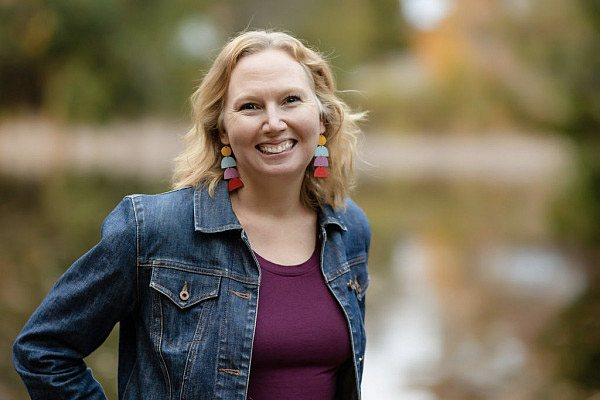
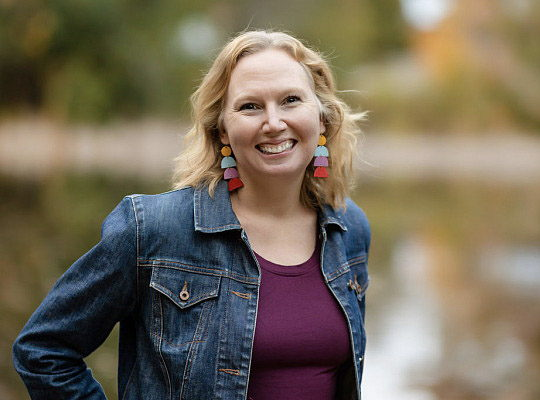
courses changes

diff --git a/courses/index.html b/courses/index.html
@@ -12,6 +12,247 @@
   <meta property="og:description" content="Enroll in six-week online seminars led by world-class scholars. Take courses for personal enrichment or earn ICS credit toward a Master's degree.">
   <meta property="og:url" content="https://f2bf.icscanada.edu/f2bf-courses">
   <meta property="og:type" content="website">
+  <meta property="og:site_name" content="Free to be Faithful">
+  <meta name="twitter:card" content="summary_large_image">
+  <meta name="twitter:title" content="Courses | Free to be Faithful | ICS">
+  <meta name="twitter:description" content="Enroll in six-week online seminars led by world-class scholars. Take courses for personal enrichment or earn ICS credit toward a Master's degree.">
+  <script type="application/ld+json">
+  {
+    "@context": "https://schema.org",
+    "@graph": [
+      {
+        "@type": "WebPage",
+        "@id": "https://f2bf.icscanada.edu/f2bf-courses",
+        "name": "Courses | Free to be Faithful",
+        "description": "Enroll in six-week online seminars led by world-class scholars. Take courses for personal enrichment or earn ICS credit toward a Master's degree.",
+        "url": "https://f2bf.icscanada.edu/f2bf-courses",
+        "isPartOf": { "@id": "https://f2bf.icscanada.edu/#website" }
+      },
+      {
+        "@type": "Course",
+        "name": "Spirals of Love and Healing: Empathy, Re-stor(y)-ing, Re-connecting, Transforming",
+        "description": "Explores the journey of personal healing as an interactive, inter-relational dance of trust and attunement, following a four-stage spiralling process: letting-in, letting-go, letting-out, and letting-transform.",
+        "provider": {
+          "@type": "EducationalOrganization",
+          "name": "Institute for Christian Studies",
+          "url": "https://www.icscanada.edu"
+        },
+        "instructor": {
+          "@type": "Person",
+          "name": "Jim Olthuis",
+          "jobTitle": "Professor Emeritus of Philosophical Theology",
+          "affiliation": { "@type": "EducationalOrganization", "name": "Institute for Christian Studies" }
+        },
+        "courseMode": "Online",
+        "courseSchedule": {
+          "@type": "Schedule",
+          "startDate": "2026-09-15",
+          "repeatFrequency": "P1W",
+          "repeatCount": 6,
+          "byDay": "Tuesday",
+          "scheduleTimezone": "America/Toronto"
+        },
+        "offers": [
+          {
+            "@type": "Offer",
+            "name": "Non-Credit",
+            "price": "400.00",
+            "priceCurrency": "CAD",
+            "url": "https://f2bf.icscanada.edu/f2bf-courses"
+          },
+          {
+            "@type": "Offer",
+            "name": "For Credit",
+            "price": "1500.00",
+            "priceCurrency": "CAD",
+            "url": "https://f2bf.icscanada.edu/f2bf-courses"
+          }
+        ],
+        "educationalLevel": "Graduate",
+        "inLanguage": "en",
+        "hasCourseInstance": {
+          "@type": "CourseInstance",
+          "courseMode": "Online",
+          "startDate": "2026-09-15",
+          "endDate": "2026-10-20",
+          "location": { "@type": "VirtualLocation", "name": "Zoom" }
+        }
+      },
+      {
+        "@type": "Course",
+        "name": "Keeping Faith Under Dictators: Lessons from 20th Century Europe",
+        "description": "What lessons can we gain from European Christians of the last century, both Protestant and Catholic, who lived under fascist, Nazi, and communist regimes? Explores the dynamics of resistance and complicity, and the theological responses of ministers, artists, and intellectuals.",
+        "provider": {
+          "@type": "EducationalOrganization",
+          "name": "Institute for Christian Studies",
+          "url": "https://www.icscanada.edu"
+        },
+        "instructor": {
+          "@type": "Person",
+          "name": "Bruce Berglund",
+          "jobTitle": "Historian and Author"
+        },
+        "courseMode": "Online",
+        "courseSchedule": {
+          "@type": "Schedule",
+          "startDate": "2026-09-16",
+          "repeatFrequency": "P1W",
+          "repeatCount": 6,
+          "byDay": "Wednesday",
+          "scheduleTimezone": "America/Toronto"
+        },
+        "offers": [
+          {
+            "@type": "Offer",
+            "name": "Non-Credit",
+            "price": "400.00",
+            "priceCurrency": "CAD",
+            "url": "https://f2bf.icscanada.edu/f2bf-courses"
+          },
+          {
+            "@type": "Offer",
+            "name": "For Credit",
+            "price": "1500.00",
+            "priceCurrency": "CAD",
+            "url": "https://f2bf.icscanada.edu/f2bf-courses"
+          }
+        ],
+        "educationalLevel": "Graduate",
+        "inLanguage": "en",
+        "hasCourseInstance": {
+          "@type": "CourseInstance",
+          "courseMode": "Online",
+          "startDate": "2026-09-16",
+          "endDate": "2026-10-21",
+          "location": { "@type": "VirtualLocation", "name": "Zoom" }
+        }
+      },
+      {
+        "@type": "Course",
+        "name": "“Broken Hallelujah”: Faith, Deconstruction, and Spirituality through Music",
+        "description": "Drawing on stories gathered for Blessed Are the Undone, this course explores experiences of faith, deconstruction, and spiritual longing through the music and poetry that give voice to what can be difficult to articulate.",
+        "provider": {
+          "@type": "EducationalOrganization",
+          "name": "Institute for Christian Studies",
+          "url": "https://www.icscanada.edu"
+        },
+        "instructor": {
+          "@type": "Person",
+          "name": "Angela Reitsma Bick",
+          "jobTitle": "Author and former Editor-in-Chief, Christian Courier"
+        },
+        "courseMode": "Online",
+        "courseSchedule": {
+          "@type": "Schedule",
+          "startDate": "2026-11-03",
+          "repeatFrequency": "P1W",
+          "repeatCount": 6,
+          "byDay": "Tuesday",
+          "scheduleTimezone": "America/Toronto"
+        },
+        "offers": [
+          {
+            "@type": "Offer",
+            "name": "Non-Credit",
+            "price": "400.00",
+            "priceCurrency": "CAD",
+            "url": "https://f2bf.icscanada.edu/f2bf-courses"
+          },
+          {
+            "@type": "Offer",
+            "name": "For Credit",
+            "price": "1500.00",
+            "priceCurrency": "CAD",
+            "url": "https://f2bf.icscanada.edu/f2bf-courses"
+          }
+        ],
+        "educationalLevel": "Graduate",
+        "inLanguage": "en",
+        "hasCourseInstance": {
+          "@type": "CourseInstance",
+          "courseMode": "Online",
+          "startDate": "2026-11-03",
+          "endDate": "2026-12-08",
+          "location": { "@type": "VirtualLocation", "name": "Zoom" }
+        }
+      },
+      {
+        "@type": "Course",
+        "name": "“We Are Free to Change the World”: Hope, Resistance, and the Power of the Possible",
+        "description": "A six-week seminar on hope, resistance, and the power of the possible. Full course description coming soon.",
+        "provider": {
+          "@type": "EducationalOrganization",
+          "name": "Institute for Christian Studies",
+          "url": "https://www.icscanada.edu"
+        },
+        "instructor": {
+          "@type": "Person",
+          "name": "Ronald A. Kuipers",
+          "jobTitle": "President and Professor of Philosophy of Religion",
+          "affiliation": { "@type": "EducationalOrganization", "name": "Institute for Christian Studies" }
+        },
+        "courseMode": "Online",
+        "courseSchedule": {
+          "@type": "Schedule",
+          "startDate": "2026-11-05",
+          "repeatFrequency": "P1W",
+          "repeatCount": 6,
+          "byDay": "Thursday",
+          "scheduleTimezone": "America/Toronto"
+        },
+        "offers": [
+          {
+            "@type": "Offer",
+            "name": "Non-Credit",
+            "price": "400.00",
+            "priceCurrency": "CAD",
+            "url": "https://f2bf.icscanada.edu/f2bf-courses"
+          },
+          {
+            "@type": "Offer",
+            "name": "For Credit",
+            "price": "1500.00",
+            "priceCurrency": "CAD",
+            "url": "https://f2bf.icscanada.edu/f2bf-courses"
+          }
+        ],
+        "educationalLevel": "Graduate",
+        "inLanguage": "en",
+        "hasCourseInstance": {
+          "@type": "CourseInstance",
+          "courseMode": "Online",
+          "startDate": "2026-11-05",
+          "endDate": "2026-12-10",
+          "location": { "@type": "VirtualLocation", "name": "Zoom" }
+        }
+      },
+      {
+        "@type": "ItemList",
+        "name": "Upcoming Courses",
+        "itemListElement": [
+          { "@type": "ListItem", "position": 1, "name": "Readings for the Soul: More Encounters with the Good, the True, and the Beautiful", "description": "Karen Swallow Prior. Thursdays, January 7 to February 11, 2027." },
+          { "@type": "ListItem", "position": 2, "name": "Decolonizing The Great Commission", "description": "Joash Thomas. Tuesdays, January 12 to February 16, 2027." },
+          { "@type": "ListItem", "position": 3, "name": "Christian Antichrists: Recovering a Biblical Category for a Christian Crisis", "description": "Matthew D. Taylor. Thursdays, March 4 to April 8, 2027." },
+          { "@type": "ListItem", "position": 4, "name": "The Prophetic Imagination in Popular Culture", "description": "Mary McCampbell. Tuesdays, June 1 to July 6, 2027." },
+          { "@type": "ListItem", "position": 5, "name": "“Do Not Let Your Hearts Be Troubled”: Perspectives on Peace", "description": "Ethan van der Leek. Thursdays, June 3 to July 8, 2027." }
+        ]
+      },
+      {
+        "@type": "ItemList",
+        "name": "Past Courses",
+        "itemListElement": [
+          { "@type": "ListItem", "position": 1, "name": "Gender, Sexuality, and the Bible", "description": "Exploring how the Bible has been interpreted with regard to questions of sexuality and gender." },
+          { "@type": "ListItem", "position": 2, "name": "Twentieth Century Authoritarianism", "description": "Exploring resistance and complicity through 20th-century European history." },
+          { "@type": "ListItem", "position": 3, "name": "The Good, The True, and The Beautiful", "description": "Reading literature to restore the soul — classic and contemporary fiction and poetry." },
+          { "@type": "ListItem", "position": 4, "name": "Reading the Ruins", "description": "Canadian writers explore the quiet deconstruction of faith through narrative and story." },
+          { "@type": "ListItem", "position": 5, "name": "The Christian-Jewish Question Today", "description": "Antisemitism, Christian Zionism, and Israel — situating today's tensions in historical and theological context." },
+          { "@type": "ListItem", "position": 6, "name": "The Evangelical Imagination", "description": "How stories, images, and metaphors created a culture in crisis." },
+          { "@type": "ListItem", "position": 7, "name": "The Contemplative Life in the Age of Distraction", "description": "Cultivating a contemplative life amid digital distraction, with digital fasting, slow reading, and silence as spiritual disciplines." }
+        ]
+      }
+    ]
+  }
+  </script>
   <link rel="stylesheet" href="/assets/css/global.css">
   <link rel="stylesheet" href="/assets/css/nav.css">
   <link rel="stylesheet" href="/assets/css/footer.css">
@@ -714,7 +955,7 @@
 
 
 <!-- Main Content -->
-<div class="f2bf-c">
+<main class="f2bf-c">
 
   <!-- ══════ HERO ══════ -->
   <section class="f2bf-c-hero">
@@ -772,7 +1013,7 @@
       <div class="f2bf-c-course">
         <div class="f2bf-c-course__img-col">
           <span class="f2bf-c-course__season">Now Enrolling</span>
-          <img class="f2bf-c-course__img" src="/assets/img/BruceBerglund.jpg" alt="Bruce Berglund" width="1000" height="1000" loading="lazy">
+          <img class="f2bf-c-course__img" src="/assets/img/BruceBerglund.jpg" alt="Bruce Berglund" width="700" height="1000" loading="lazy">
         </div>
         <div class="f2bf-c-course__text-col">
           <div class="f2bf-c-course__meta">
@@ -800,7 +1041,7 @@
       <div class="f2bf-c-course">
         <div class="f2bf-c-course__img-col">
           <span class="f2bf-c-course__season">Now Enrolling</span>
-          <img class="f2bf-c-course__img" src="/assets/img/AngelaBick.jpeg" alt="Angela Reitsma Bick" width="600" height="400" loading="lazy">
+          <img class="f2bf-c-course__img" src="/assets/img/AngelaBick.jpeg" alt="Angela Reitsma Bick" width="540" height="400" loading="lazy">
         </div>
         <div class="f2bf-c-course__text-col">
           <div class="f2bf-c-course__meta">
@@ -1154,7 +1395,7 @@
     </div>
   </div>
 
-</div>
+</main>
 
 <!-- ══════ PayPal SDK + Registration Logic ══════ -->
 <!--

diff --git a/f2bf-courses/index.html b/f2bf-courses/index.html
@@ -1013,7 +1013,7 @@
       <div class="f2bf-c-course">
         <div class="f2bf-c-course__img-col">
           <span class="f2bf-c-course__season">Now Enrolling</span>
-          <img class="f2bf-c-course__img" src="/assets/img/BruceBerglund.jpg" alt="Bruce Berglund" width="1000" height="1000" loading="lazy">
+          <img class="f2bf-c-course__img" src="/assets/img/BruceBerglund.jpg" alt="Bruce Berglund" width="700" height="1000" loading="lazy">
         </div>
         <div class="f2bf-c-course__text-col">
           <div class="f2bf-c-course__meta">
@@ -1041,7 +1041,7 @@
       <div class="f2bf-c-course">
         <div class="f2bf-c-course__img-col">
           <span class="f2bf-c-course__season">Now Enrolling</span>
-          <img class="f2bf-c-course__img" src="/assets/img/AngelaBick.jpeg" alt="Angela Reitsma Bick" width="600" height="400" loading="lazy">
+          <img class="f2bf-c-course__img" src="/assets/img/AngelaBick.jpeg" alt="Angela Reitsma Bick" width="540" height="400" loading="lazy">
         </div>
         <div class="f2bf-c-course__text-col">
           <div class="f2bf-c-course__meta">
